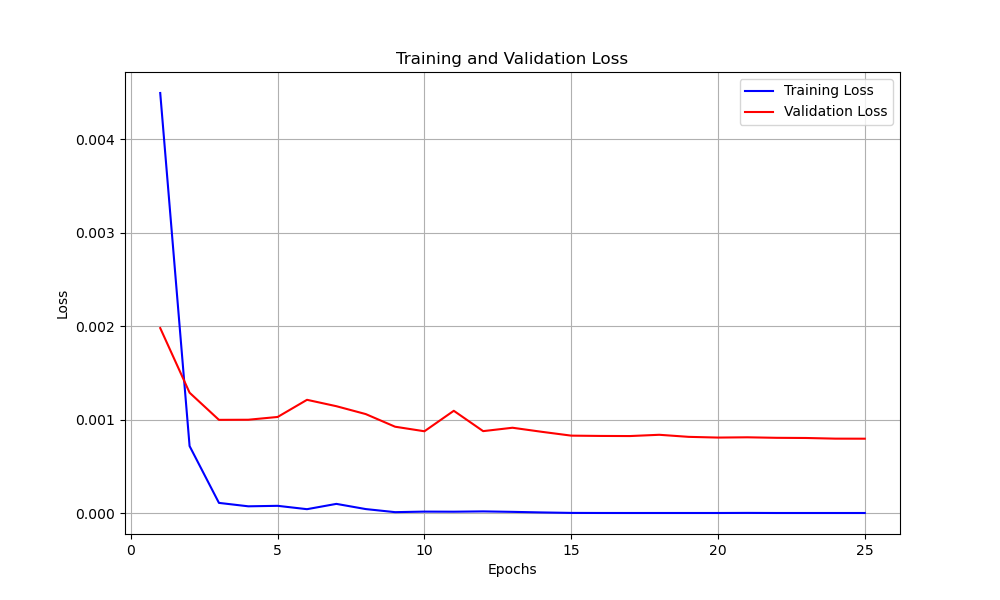
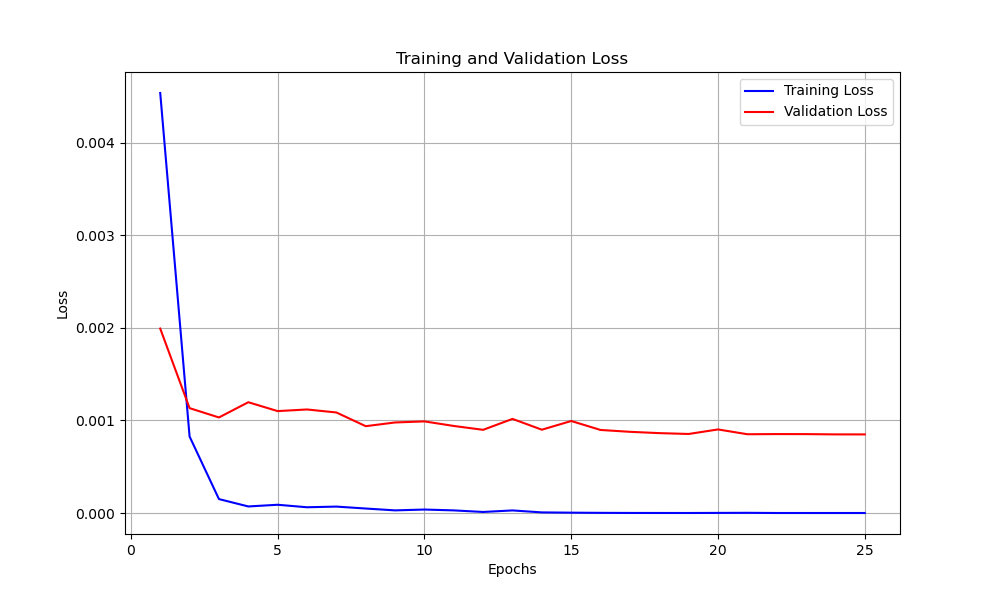
1209: 新增資料增強方法

diff --git a/003_test_t.py b/003_test_t.py
@@ -48,7 +48,7 @@ def load_best_model(args, model):
     """
     載入訓練好的最佳模型 checkpoint
     """
-    ckpt_path = './checkpoint/rdnet_base_SAttention_bz16__v4/rdnet_base_SAttention_ckpt_epoch24.pth.tar'
+    ckpt_path = './checkpoint/rdnet_base_SAttention_bz16__v5/rdnet_base_SAttention_ckpt_epoch18.pth.tar'
     print(f"✅ 載入模型權重：{ckpt_path}")
     checkpoint = torch.load(ckpt_path, map_location=args.device)
     model.load_state_dict(checkpoint['model_state_dict'])
@@ -61,18 +61,41 @@ def test_one_epoch(args, model, dataloader, criterion):
     all_preds, all_labels = [], []
     total_loss, correct, total = 0, 0, 0
 
+    '''
+    # 類別測試用
+    arr = [197, 193, 124, 195, 238, 120, 239, 146, 35, 127]
+    arr_tensor = torch.tensor(arr, dtype=torch.int64).to(args.device)
+    '''
+
     with tqdm(dataloader, desc="Testing", ncols=100) as pbar:
         for images, labels in pbar:
             images, labels = images.to(args.device), labels.to(args.device)
+            
             with torch.no_grad():
                 # if 'SAttention' in args.modelName:
                 if '.nv_in1k'  in args.modelName or 'SAttention' in args.modelName:
                     features, logits = model(images)
                 else:
                     logits = model(images)
+                
+                '''
+                # 類別測試用, ~is_in_arr為取反向
+                is_in_arr = torch.isin(labels, arr_tensor)
+                mask_to_calculate = is_in_arr
+                if mask_to_calculate.sum().item() == 0:
+                    # 如果所有樣本都被排除，則跳過這個批次的累積
+                    continue
+                logits = logits[mask_to_calculate]
+                labels = labels[mask_to_calculate]
+                '''
+
                 loss = criterion(logits, labels)
                 _, preds = torch.max(logits, 1)
 
+            '''
+            # 類別測試用
+            total_loss += loss.item() * labels.size(0)
+            '''
             total_loss += loss.item() * images.size(0)
             correct += (preds == labels).sum().item()
             total += labels.size(0)
@@ -123,7 +146,6 @@ def main(args):
 
 
     model, criterion = accelerator.prepare(model, criterion)
-    print(model)
 
     # === 執行測試 ===
     acc, f1, precision, recall, loss = test_one_epoch(args, model, test_dataloader, criterion)

diff --git a/config.py b/config.py
@@ -51,7 +51,8 @@ def _GetMainParameters():
     rdnet_base_SAttention(第一個ESE前凍結)              Total parameters: 81,719,381       val_acc: 93.70%   val_loss: 0.0008   test_acc: 94.69%     test_loss: 0.0005     F1: 76.9600 (SAttention_v1)
     rdnet_base_SAttention(呈上, 加入損失alpha)          Total parameters: 81,719,381       val_acc: 92.81%   val_loss: 0.0008   test_acc: 94.40%     test_loss: 0.0006     F1: 75.9733 (SAttention_v2)
     rdnet_base_SAttention(呈5, lr LR_MUL更改)           Total parameters: 81,719,381       val_acc: 93.50%   val_loss: 0.0008   test_acc: 94.20%     test_loss: 0.0006     F1: 74.6704 (SAttention_v3)
-    rdnet_base_SAttention(呈5, ksize:7=>3)              Total parameters: 49,926,423        val_acc: 93.01   val_loss: 0.0009    test_acc: 94.99%     test_loss: 0.0006      F1: 78.0857 (SAttention_v4)
+    rdnet_base_SAttention(呈5, ksize:7=>3)              Total parameters: 81,717,221        val_acc: 93.01   val_loss: 0.0009    test_acc: 94.99%     test_loss: 0.0006      F1: 78.0857 (SAttention_v4)
+    rdnet_base_SAttention(呈7, 取代 CLAHE)   
     '''
     parser.add_argument('--modelName', type=str, default="rdnet_base_SAttention")
 
@@ -59,7 +60,7 @@ def _GetMainParameters():
     parser.add_argument('--scheduler', type=str, default="CosineAnnealingWarmRestarts") # CosineAnnealingWarmRestarts
     
     parser.add_argument('--phase', type=str, default="train")
-    parser.add_argument('--train_version', type=str, default="_v4")
+    parser.add_argument('--train_version', type=str, default="_v5")
     parser.add_argument('--pretrained_path', type=str, default="./weight")
 
     parser.add_argument('--epochs', type=int, default=25)

diff --git a/001_make_dataset.py b/001_make_dataset.py
@@ -66,7 +66,7 @@ def create_annotation_file(all_data, save_path):
     data_file['test']['path'] = test_paths
     data_file['test']['label'] = test_labels
 
-    pickle.dump(data_file, open(save_path, 'wb'))
+    # pickle.dump(data_file, open(save_path, 'wb'))
     print(len(data_file['train']['path']), len(data_file['train']['label']), data_file['train']['path'][0], data_file['train']['label'][0])
     print(len(data_file['val']['path']), len(data_file['val']['label']), data_file['val']['path'][0], data_file['val']['label'][0])
     print(len(data_file['test']['path']), len(data_file['test']['label']), data_file['test']['path'][0], data_file['test']['label'][0])
@@ -79,6 +79,10 @@ def create_annotation_file(all_data, save_path):
     train_counts = Counter(train_labels)
     val_counts = Counter(val_labels)
     test_counts = Counter(test_labels)
+
+    print(f"train_counts: {train_counts}")
+    print(f"val_counts: {val_counts}")
+    print(f"test_counts: {test_counts}")
 
     # 合併成 DataFrame 方便看
     all_labels = sorted(set(all_data['label']))
@@ -99,4 +103,18 @@ if __name__ == '__main__':
     args = config.GetArgument()
     all_data = _GetAllData(args.dataset_root)
     create_annotation_file(all_data, args.pkl_path)
-    
+
+
+
+'''
+197
+193
+124
+195
+238
+120
+239
+146
+35
+127
+'''

diff --git a/datasets/ImgPreprocess.py b/datasets/ImgPreprocess.py
@@ -76,11 +76,24 @@ class ImagesDataset(torch.utils.data.Dataset):
                         self.args.image_size[1],), 
 
                 A.CLAHE(clip_limit=2.0, tile_grid_size=(8, 8)),
+
+                # # 取代 CLAHE：亮度/對比增強（模擬不同光線） 
+                # A.RandomBrightnessContrast(
+                #     brightness_limit=0.35, 
+                #     contrast_limit=0.35, 
+                #     p=0.8), 
+                
+                # # 顏色增強：模擬不同相機/季節的葉色變化 
+                # A.HueSaturationValue(
+                #     hue_shift_limit=12, 
+                #     sat_shift_limit=20, 
+                #     val_shift_limit=15, 
+                #     p=0.6),
                 
                 A.HorizontalFlip(p=0.5), 
                 A.VerticalFlip(p=0.2), 
                 A.ShiftScaleRotate(shift_limit=0.05, scale_limit=0.15, rotate_limit=15, p=0.5),
-
+                
                 A.Normalize(mean=self.mean, std=self.std),
                 ToTensorV2(),
             ])
